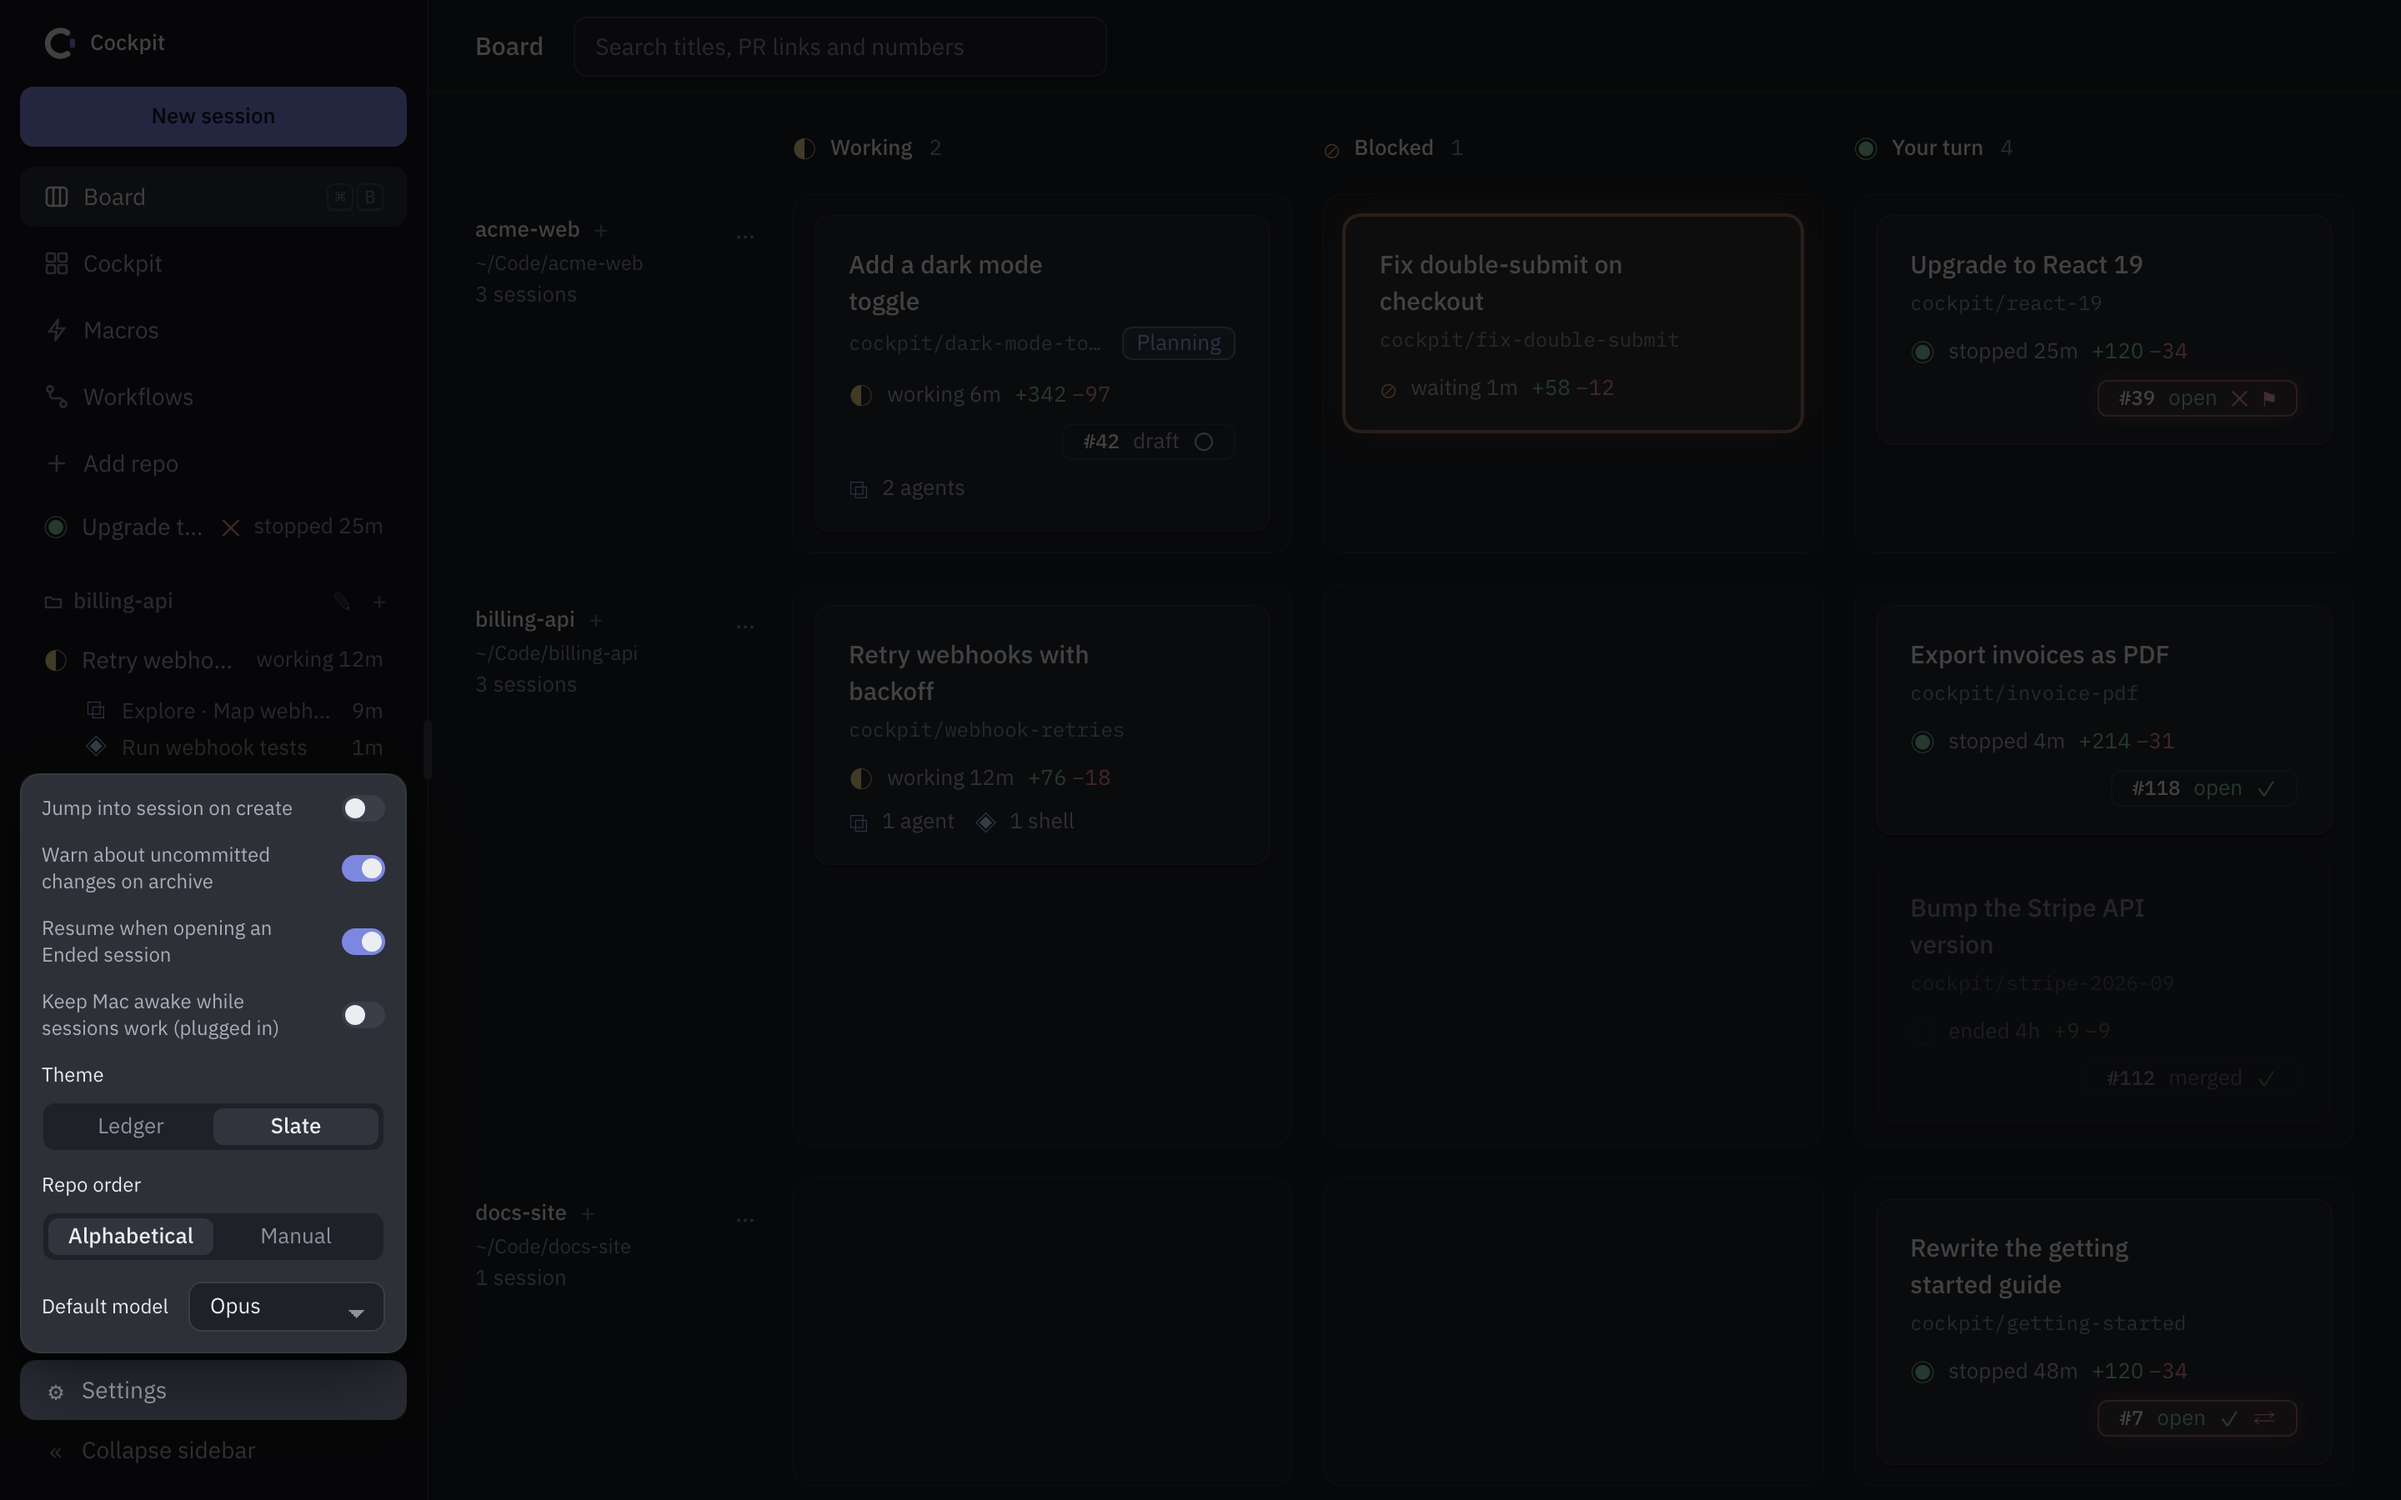
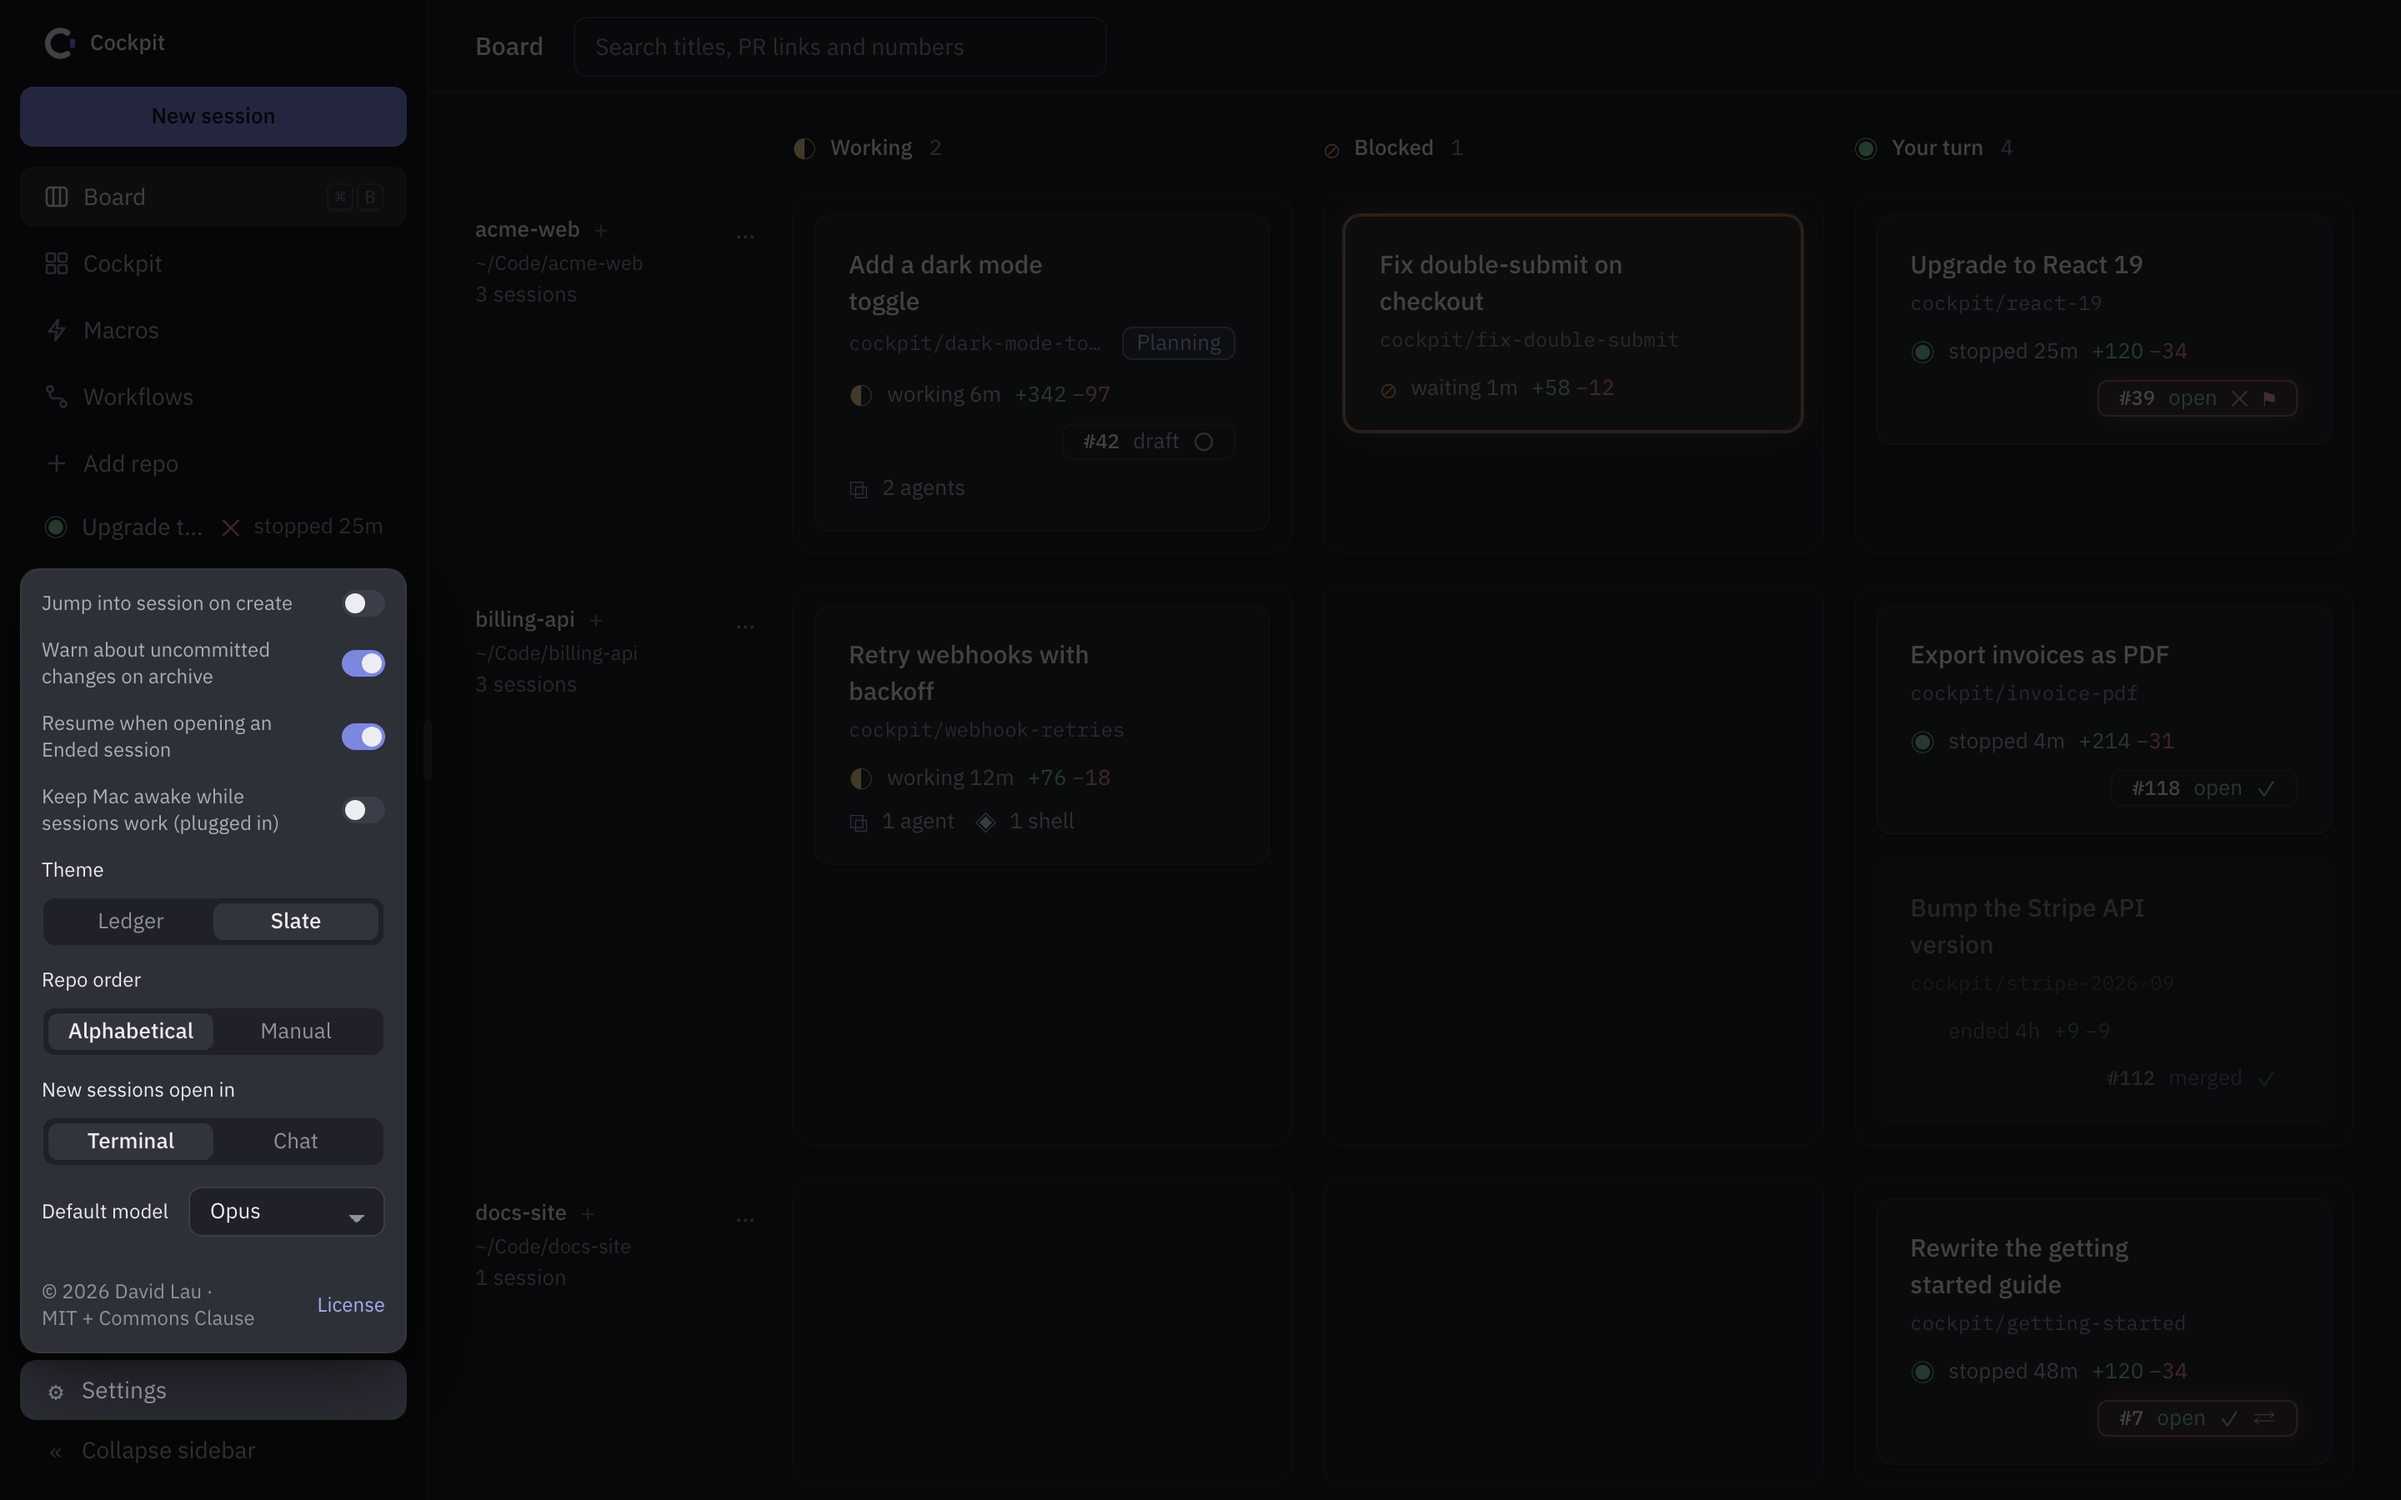
docs: Settings shows the license and About shows the copyright (#10)

Changed region(s): [[0.0, 0.3733, 0.1875, 0.9022], [0.125, 0.6222, 0.1562, 0.6844], [0.125, 0.56, 0.1562, 0.5911]]

diff --git a/README.md b/README.md
@@ -213,7 +213,7 @@ The sidebar footer shows your plan's 5-hour and weekly limits: % used and reset 
 | Default model | Opus |
 | Repo order | Alphabetical (**Manual** keeps the order you drag repo rows into on the Board) |
 
-The installed app also shows its version and **Check for updates**.
+The installed app also shows its version and **Check for updates**. The last row, **License**, shows Cockpit's license and the licenses of the open-source software it includes. **Cockpit → About Cockpit** shows the version and the copyright.
 
 ---
 
